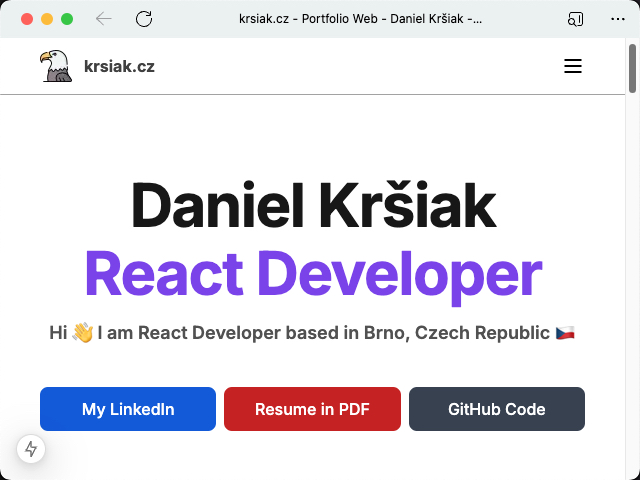
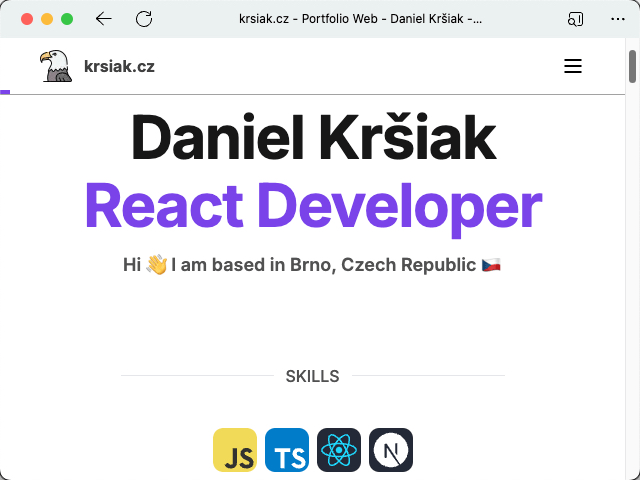
refactor(images): 👷 website new screenshots (#320)

diff --git a/lib/data/pages/projects/personal/projects-overview/next/personalNext.ts b/lib/data/pages/projects/personal/projects-overview/next/personalNext.ts
@@ -9,6 +9,7 @@ import { Project } from '@/lib/utils/interfaces/interfaces'
 import krsiak1 from '@/public/images/webp/projects/personal/krsiak/krsiak-1-light.webp'
 import krsiak2 from '@/public/images/webp/projects/personal/krsiak/krsiak-2-light.webp'
 import krsiak3 from '@/public/images/webp/projects/personal/krsiak/krsiak-3-light.webp'
+import krsiak4 from '@/public/images/webp/projects/personal/krsiak/krsiak-4-light.webp'
 import krsiakThumb from '@/public/images/webp/projects/personal/krsiak/krsiak-thumb.webp'
 
 export const projectsPersonalNext: Project[] = [
@@ -20,6 +21,7 @@ export const projectsPersonalNext: Project[] = [
       { id: 0, src: krsiak1.src },
       { id: 1, src: krsiak2.src },
       { id: 2, src: krsiak3.src },
+      { id: 3, src: krsiak4.src },
     ],
     title: '👨🏻💻 Portfolio Website',
     company: 'Personal project',

diff --git a/README.md b/README.md
@@ -165,7 +165,7 @@ You can install the WPA from the browser (example from Edge).
 
 Once installed, the WPA can be accessed from desktop (example from Mac).
 
-![WPA on Mac Desktop](/readme-images/wpa-640x480.png)
+![WPA on Mac Desktop](/readme-images/wpa-320x640.png)
 
 ## 🖼 Screenshots
 
